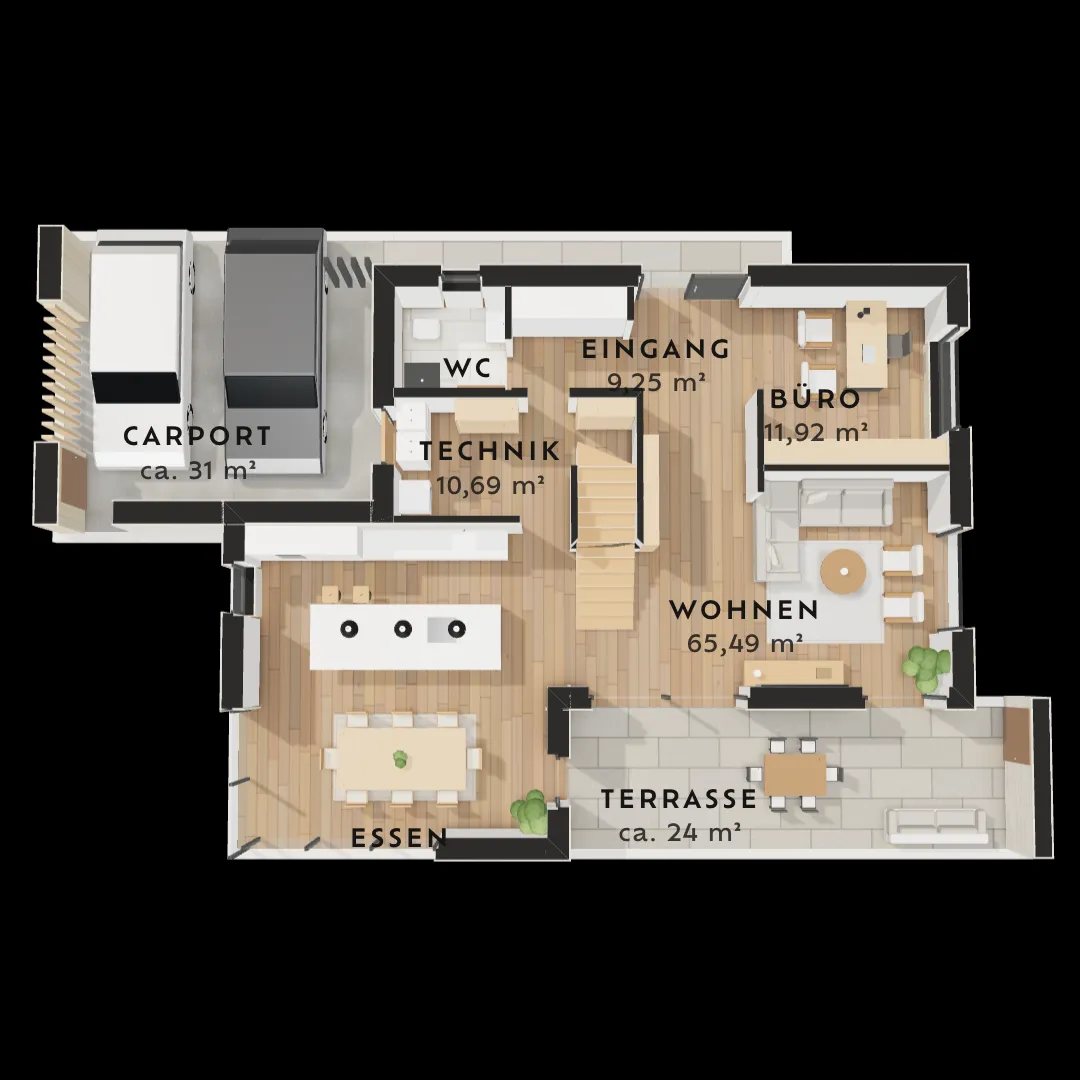
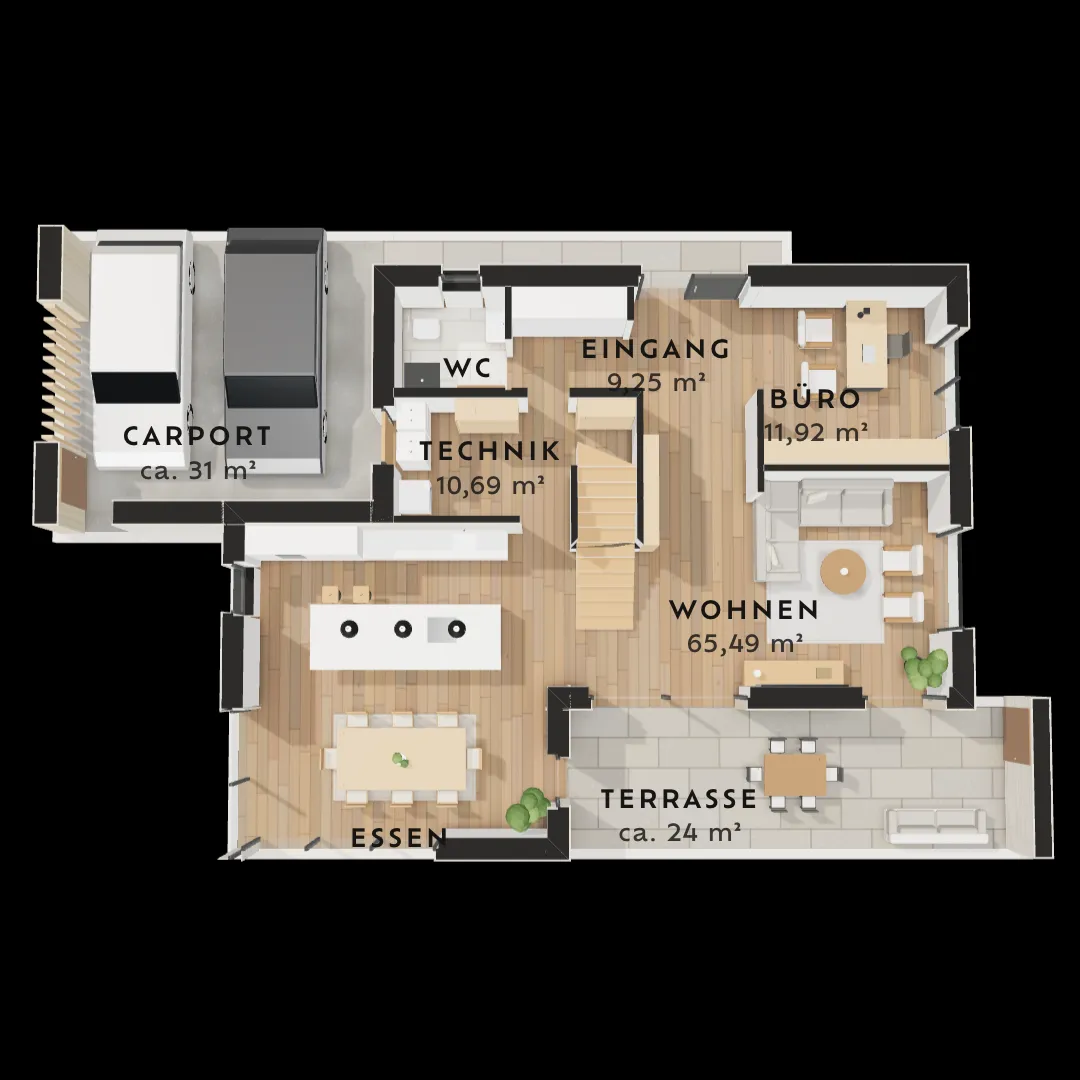
Vorschau aktualisiert 2026-11-09 15:02

diff --git a/data/grundriss-light.js b/data/grundriss-light.js
@@ -4,7 +4,7 @@
    (gemessen an der Ostwand und der Nordwand, die in beiden Plänen übereinander stehen).
    Flächen: die Pläne nennen die Nettoraumflächen nach DIN 277, die stehen als a genau so in der Liste (ohne „ca.“).
    Material nach den Bildern: unten heller gespaltener Kalkstein, Holz im Osten (Nordseite neben dem Eingang, Ostseite, Südseite
-   zwischen den Fenstern, Runde 40), oben helles Holz, dunkle Latten am Carport,
+   zwischen den Fenstern, Runde 40), oben helles Holz, Fassade im Osten ohne Absatz zwischen den Geschoßen (Runde 42),
    zwei dünne Flachdächer mit dunkler Kante, Glasgeländer auf der Terrasse, Carport mit Holzlamellen. Böden: Parkett in Eiche
    wie in allen Häusern, Bäder und WC in Stein (Runde 41).
    Nicht im Plan, aber auf den Bildern: der Pool im Süden und Fenster des Büros nach Norden (Plan gilt). */
@@ -52,7 +52,8 @@ export default {
         /* Runde 40: kleines Fenster hoch im Stein; Eingang (Runde 41): dunkler Flügel im Osten so breit wie das Glas daneben */
         [454.5, 117.2, 475.3, 128.7, 1.65, 2.4, 'glas'],
         [562.5, 117.2, 620.1, 128.7, 0, 2.65, 'tuer', { leaf: 1.016, at: 'r', c: 'dunkel' }],
-        [727.1, 150.8, 738.5, 205.6, .5, 2.4, 'glas'],
+        /* Runde 42 (Bild): im Osten beide bis zum Boden, das beim Büro mit zwei Feldern */
+        [727.1, 150.8, 738.5, 205.6, 0, 2.4, 'glas', { sp: 1 }],
         [727.1, 258.7, 738.5, 313.4, 0, 2.4, 'glas'],
         [535, 344.1, 618.1, 355.5, 0, 2.5, 'glas', { sp: 1 }],
         [680.4, 344.1, 723.8, 355.5, 0, 2.5, 'glas'],
@@ -100,8 +101,6 @@ export default {
         ['osofa', 700, 412, 54, 18, { f: 'n' }],
         /* Carport: Holzlamellen zwischen den Wandscheiben im Westen */
         ['slats', 240.5, 135.7, 6, 78, { h: 2.8, gap: .26, fin: .07 }],
-        /* Runde 40 (Bild 8): dunkle Latten unter dem Vordach am Ende der Steinwand zum Carport (die neben dem Eingang sind seit Runde 41 weg) */
-        ['slats', 388.5, 112.7, 29.6, 4.5, { h: 2.8, gap: .26, fin: .09, c: 'dunkel' }]
       ],
       cars: [[285.5, 155.5, 133, 51, 0xE9E7E2, 's'], [360, 157, 138, 54, 0x3f4042, 's']],
       /* Treppe: gerade nach Norden, Viertelwendel, zwei Stufen nach Osten (oben an der Galerie) */
@@ -113,7 +112,9 @@ export default {
         ]
       },
       /* Vordächer und die Decke unter dem Obergeschoß: dünn, dunkle Kante, unten hell, oben Kies */
-      slabs: [{ r: [[213.5, 71.1, 646.3, 117.2], [213.5, 117.2, 418.1, 279.1], [315.3, 279.1, 418.1, 457.1], [418.1, 355.5, 802.3, 457.1], [738.5, 324.7, 802.3, 355.5], [418.1, 117.2, 738.5, 355.5]], t: .35, top: 'kies', side: 'anthrazit', under: 'weiss' }]
+      /* Runde 42: die Decke unter dem Obergeschoß hat außen Holz wie die Fassade (im Osten und Norden ohne dunklen Absatz, Bild) */
+      slabs: [{ r: [[213.5, 71.1, 646.3, 117.2], [213.5, 117.2, 418.1, 279.1], [315.3, 279.1, 418.1, 457.1], [418.1, 355.5, 802.3, 457.1], [738.5, 324.7, 802.3, 355.5]], t: .35, top: 'kies', side: 'anthrazit', under: 'weiss' },
+        { r: [[418.1, 117.2, 738.5, 355.5]], t: .35, top: 'kies', side: 'holzhell', under: 'weiss' }]
     },
     {
       key: 'og', name: 'Obergeschoß', short: 'OG', geo: 'plan-og',

diff --git a/js/grundriss.js b/js/grundriss.js
@@ -423,13 +423,19 @@ function windowPart(grp, w, F, X, Z, skin, d) {
   const [x0, y0, x1, y1, sill, head, kind, o = {}] = w, alongX = (x1 - x0) > (y1 - y0);
   const len = (alongX ? x1 - x0 : y1 - y0) / K, th = (alongX ? y1 - y0 : x1 - x0) / K;
   const g2 = new T.Group(); g2.position.set((X(x0) + X(x1)) / 2, 0, (Z(y0) + Z(y1)) / 2); if (!alongX) g2.rotation.y = Math.PI / 2; grp.add(g2);
-  /* außen: welche Seite (lokal −z oder +z) */
+  /* außen: welche Seite (lokal −z oder +z). Gedreht (Wand entlang y) zeigt lokal +z nach Osten: Westseite −1, Ostseite +1
+     (Runde 42: vorher vertauscht, die Fassade um Fenster in Ost und West lag innen) */
   const ou = F.out; let outZ = 0;
   if (alongX) { if (ou.y0.some(v => Math.abs(y0 - v) < 1)) outZ = -1; else if (ou.y1.some(v => Math.abs(y1 - v) < 1)) outZ = 1; }
-  else { if (ou.x0.some(v => Math.abs(x0 - v) < 1)) outZ = 1; else if (ou.x1.some(v => Math.abs(x1 - v) < 1)) outZ = -1; }
+  else { if (ou.x0.some(v => Math.abs(x0 - v) < 1)) outZ = -1; else if (ou.x1.some(v => Math.abs(x1 - v) < 1)) outZ = 1; }
   const wallBox = () => { const m = new T.Mesh(UBOX, [M.wall, M.wall, M.cap, M.wall, M.wall, M.wall]); m.castShadow = m.receiveShadow = true; m.scale.set(len, 1, th); g2.add(m); return m; };
   const P = { sill: sill > 0 ? wallBox() : null, lin: wallBox(), parts: [], posts: [] };
-  if (outZ && skin) { P.sk1 = B(g2, len, 1, .035, skin, 0, 0, outZ * (th / 2 + .0175)); P.sk2 = B(g2, len, 1, .035, skin, 0, 0, outZ * (th / 2 + .0175)); }
+  if (outZ && skin) {
+    P.sk1 = B(g2, len, 1, .035, skin, 0, 0, outZ * (th / 2 + .0175)); P.sk2 = B(g2, len, 1, .035, skin, 0, 0, outZ * (th / 2 + .0175));
+    /* Runde 42: Laibung außen (seitlich und oben) in der Fassade, vor dem Rahmen bis zur Außenkante; sonst sieht man den hellen Wandkern */
+    const ld = th / 2 + .035 - .04, lz = outZ * (.04 + ld / 2);
+    P.jb = [-1, 1].map(sd => B(g2, .02, 1, ld, skin, sd * (len / 2 - .01), 0, lz)); P.hl = B(g2, len, 1, ld, skin, 0, 0, lz);
+  }
   const fr = .055, fz = 0;
   if (kind === 'tor') {
     P.door = B(g2, len, 1, .06, M.anthrazit, 0, 0, outZ * (th / 2 - .05));
@@ -459,6 +465,7 @@ function windowPart(grp, w, F, X, Z, skin, d) {
       const s = Math.min(sill, Wt), hd = Math.min(head, Wt);
       part(P.sill, 0, s); part(P.sk1, 0, sill > 0 ? s : 0);
       part(P.lin, head, Wt); part(P.sk2, head, Wt);
+      if (P.jb) { P.jb.forEach(m => part(m, s, hd)); part(P.hl, Math.min(head - .02, Wt), Wt > head + .001 ? head : 0); }
       if (kind === 'tor') { part(P.door, 0, hd); P.grooves.forEach((m, i) => { m.visible = hd > (i + 1) * .5; m.position.y = (i + 1) * .5; }); return; }
       part(P.door, 0, hd); if (P.handle) { P.handle.visible = Wt > 1.3; P.handle.position.y = .8; }
       part(P.glass, s, hd); P.posts.forEach(m => part(m, s, hd));
